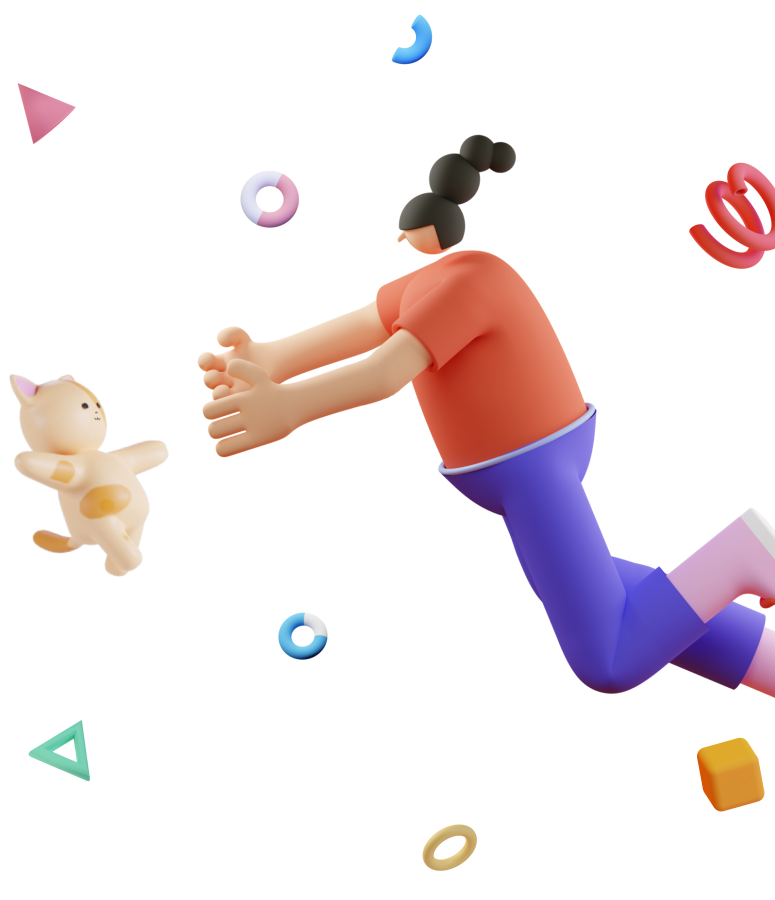
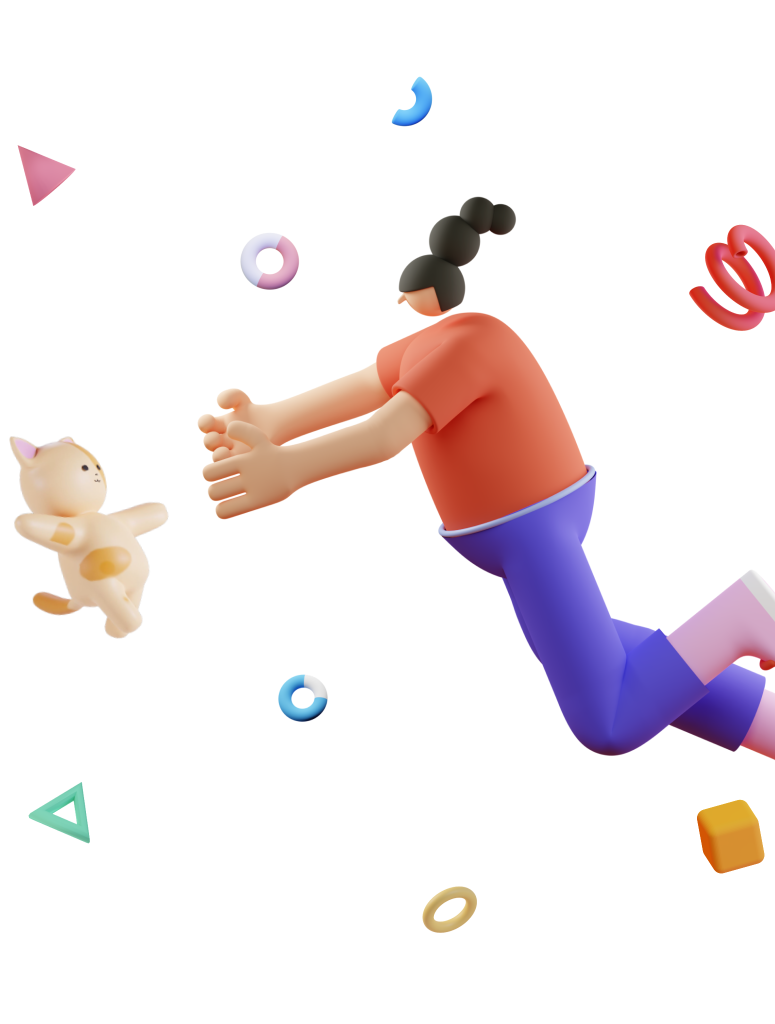
fix: make responsible hello page

diff --git a/src/pages/HelloPage/HelloPage.module.scss b/src/pages/HelloPage/HelloPage.module.scss
@@ -1,10 +1,21 @@
-.wrapper{
-  flex: 14;
-  height: 100%;
+.hello{
+  flex: 1;
+  padding: 30px;
 }
-.img{
-  display: block;
+.wrapper {
   height: 100%;
-  width: 100%;
+  background-color: var(--hoverColor);
+  border-radius: 20px;
+}
+
+.img {
+  position: absolute;
+  display: block;
+  height: 100vh;
+  width: 55%;
+  top: 0;
+  right: 0;
   object-fit: cover;
+  object-position: left; /* Добавленное свойство */
+  z-index: 100;
 }

diff --git a/src/pages/HelloPage/HelloPage.tsx b/src/pages/HelloPage/HelloPage.tsx
@@ -2,8 +2,10 @@ import s from './HelloPage.module.scss';
 
 const HelloPage = () => {
   return (
-    <div className={s.wrapper}>
-      <img className={s.img} src="img/hello.png" alt="man to hug cat" />
+    <div className={s.hello}>
+      <div className={s.wrapper}>
+        <img className={s.img} src="img/hello.png" alt="man to hug cat" />
+      </div>
     </div>
   );
 };
